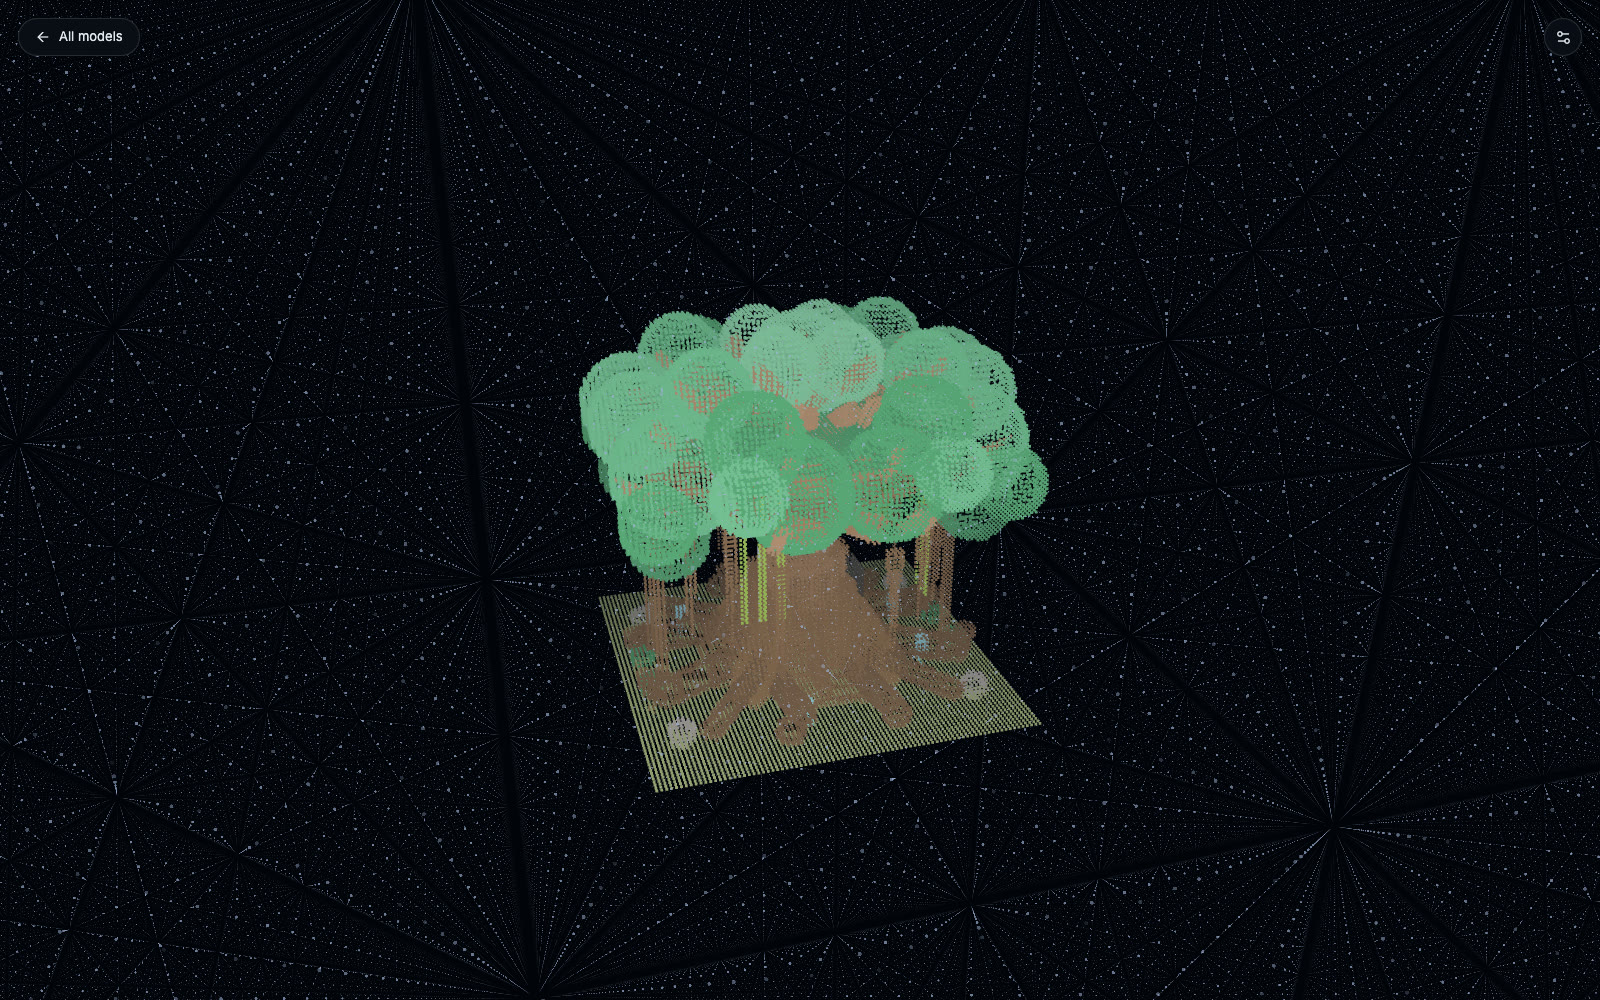
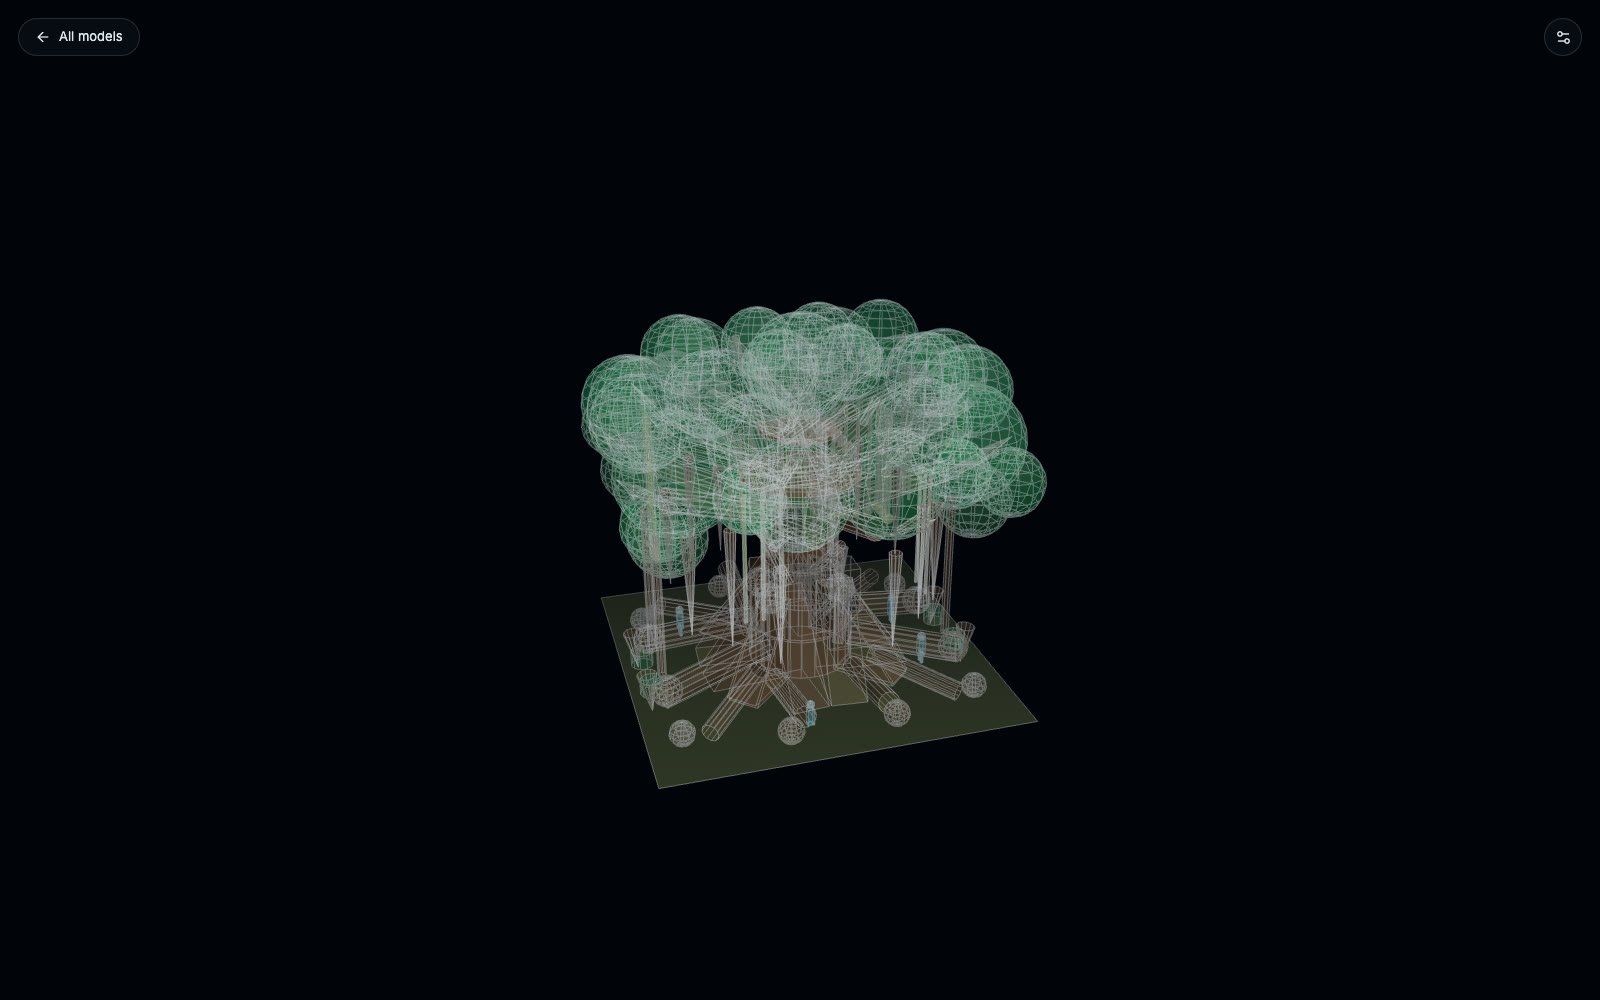
feat(gallery): open models as solid mesh on black
Models now load with mesh + wireframe on and both dot layers off, which reads
like an engineering drawing; dots are one switch away. Thumbnails re-shot to
match what opening a card actually shows.

Changed region(s): [[0.3438, 0.279, 0.6562, 0.806]]

diff --git a/src/gallery/GalleryApp.tsx b/src/gallery/GalleryApp.tsx
@@ -15,12 +15,14 @@ import { CATALOG, modelUrl, thumbUrl, type GalleryItem } from "./catalog";
 
 const REPO = "https://github.com/rajkandula/vertex-3d-studio";
 
+// Models open as a solid surface with its edges, on plain black — switch the dots on to see
+// how the studio draws them.
 const DEFAULT_VIEW: ViewSettings = {
-  dots: true,
-  mesh: false,
+  dots: false,
+  mesh: true,
   meshOpacity: 0.45,
-  wireframe: false,
-  field: true,
+  wireframe: true,
+  field: false,
   reasoning: false,
   detail: "normal",
   autoRotate: true,
